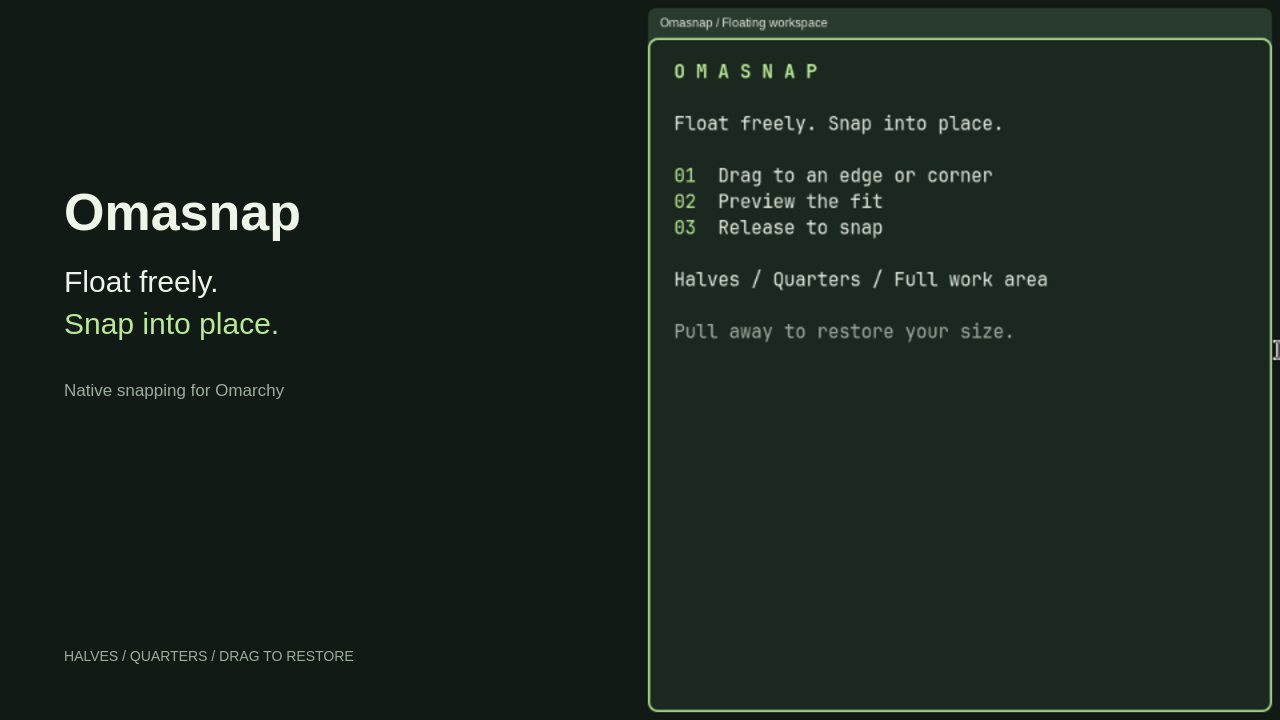
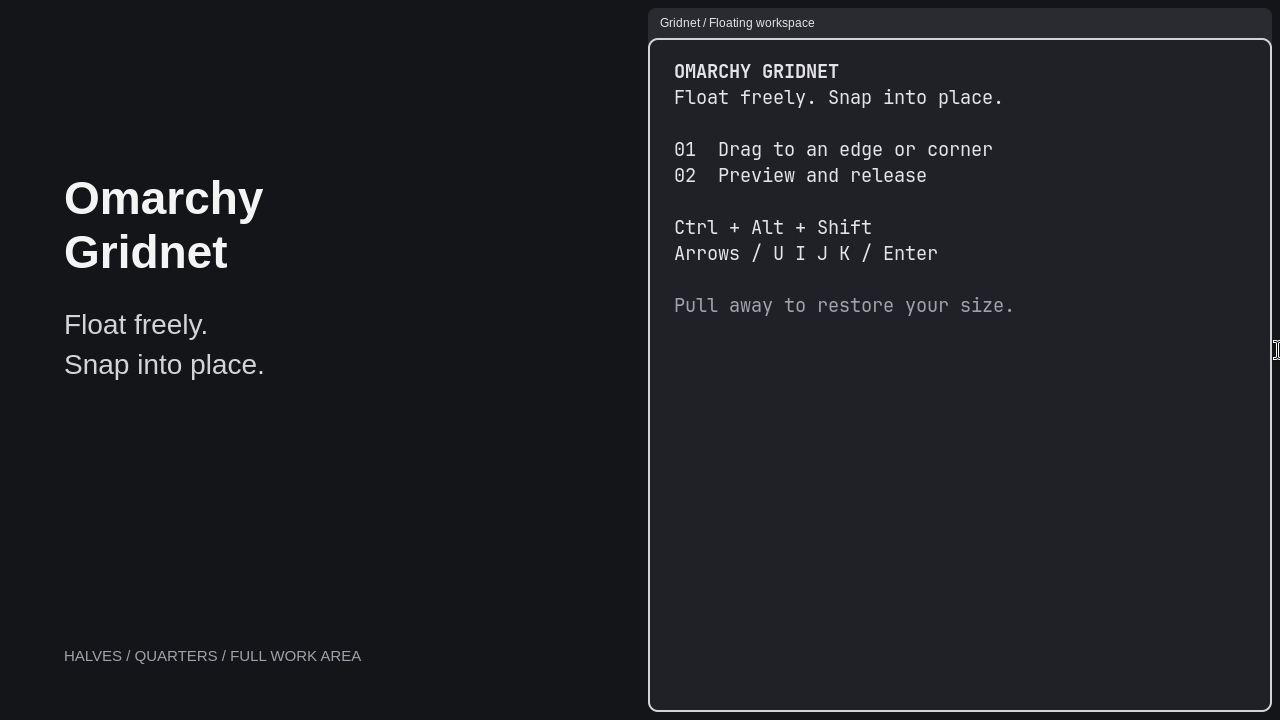
Rebrand as Omarchy Gridnet 1.0.0

diff --git a/Service.qml b/Service.qml
@@ -40,7 +40,7 @@ Item {
                     if (entries[i].id === root.pluginId) value = entries[i];
                 root.settings = value;
             } catch (error) {
-                console.warn("Omasnap: could not read plugin settings: " + error);
+                console.warn("Gridnet: could not read plugin settings: " + error);
             }
         }
     }
@@ -59,7 +59,7 @@ Item {
         }
         onExited: function(exitCode) {
             root.ready = false;
-            if (exitCode !== 0) console.warn("Omasnap: controller exited with code " + exitCode);
+            if (exitCode !== 0) console.warn("Gridnet: controller exited with code " + exitCode);
         }
     }
 

diff --git a/native/plugin.cpp b/native/plugin.cpp
@@ -87,13 +87,13 @@ class Snap {
         const auto modifiers = g_pKeybindManager->stringToModMask("CTRL ALT SHIFT");
         for (const auto& [key, zone] : {
             std::pair{"LEFT", "left"}, {"RIGHT", "right"}, {"UP", "top"}, {"DOWN", "bottom"},
-            {"U", "top-left"}, {"I", "top-right"}, {"J", "bottom-left"}, {"K", "bottom-right"}
+            {"U", "top-left"}, {"I", "top-right"}, {"J", "bottom-left"}, {"K", "bottom-right"}, {"RETURN", "full"}
         }) {
             if (g_pKeybindManager->findConflictingKeybind(xkb_keysym_from_name(key, XKB_KEYSYM_CASE_INSENSITIVE), modifiers))
                 continue;
             bindings.push_back(g_pKeybindManager->addKeybind(SKeybind{
                 .key = key, .modmask = modifiers, .handler = "omasnap:snap", .arg = zone,
-                .description = std::string("Omasnap: ") + zone, .hasDescription = true,
+                .description = std::string("Gridnet: ") + zone, .hasDescription = true,
                 .displayKey = std::string("CTRL + ALT + SHIFT + ") + key,
             }));
         }
@@ -316,14 +316,14 @@ APICALL EXPORT std::string PLUGIN_API_VERSION() { return HYPRLAND_API_VERSION; }
 
 APICALL EXPORT PLUGIN_DESCRIPTION_INFO PLUGIN_INIT(HANDLE handle) {
     if (std::string(__hyprland_api_get_hash()) != __hyprland_api_get_client_hash())
-        throw std::runtime_error("Omasnap: installed headers do not match the running Hyprland; rebuild after logging in again");
+        throw std::runtime_error("Gridnet: installed headers do not match the running Hyprland; rebuild after logging in again");
     instance = std::make_unique<Snap>();
     if (!HyprlandAPI::addDispatcherV2(handle, "omasnap:snap", [](std::string zone) -> SDispatchResult {
         const auto w = Desktop::focusState()->window();
         if (!instance->eligible(w ? w->m_target : nullptr)) return {.passEvent = true, .success = true, .error = ""};
         const auto result = instance->request("omasnap snap " + zone);
         return {.success = result == "ok", .error = result == "ok" ? "" : result};
-    })) throw std::runtime_error("Omasnap: could not register snap dispatcher");
+    })) throw std::runtime_error("Gridnet: could not register snap dispatcher");
     auto& events = Event::bus()->m_events;
     instance->listeners.push_back(events.config.reloaded.listen([] { instance->installBindings(); }));
     instance->listeners.push_back(events.input.mouse.move.listen([](Vector2D, Event::SCallbackInfo&) { instance->motion(); }));
@@ -342,9 +342,9 @@ APICALL EXPORT PLUGIN_DESCRIPTION_INFO PLUGIN_INIT(HANDLE handle) {
     instance->command = HyprlandAPI::registerHyprCtlCommand(handle, SHyprCtlCommand{
         .name = "omasnap", .exact = false,
         .fn = [](eHyprCtlOutputFormat, std::string request) { return instance->request(request); }});
-    if (!instance->command) throw std::runtime_error("Omasnap: could not register IPC command");
+    if (!instance->command) throw std::runtime_error("Gridnet: could not register IPC command");
     instance->installBindings();
-    return {"omasnap-window-snap", "Edge and corner snapping for native Omarchy floating workspaces", "Omasnap contributors", "0.1.4"};
+    return {"omasnap-window-snap", "Omarchy Gridnet: window snapping for floating workspaces", "hudrucan", "1.0.0"};
 }
 
 APICALL EXPORT void PLUGIN_EXIT() { instance.reset(); }

diff --git a/tests/integration.py b/tests/integration.py
@@ -111,7 +111,7 @@ try:
     ctl("omasnap", "restore", check=False)
     position(300, 220)
     original = geometry()
-    for zone in ["left", "right", "top", "bottom", "top-left", "top-right", "bottom-left", "bottom-right"]:
+    for zone in ["left", "right", "top", "bottom", "top-left", "top-right", "bottom-left", "bottom-right", "full"]:
         assert ctl("omasnap", "snap " + zone) == "ok"
         time.sleep(0.1)
         at, size = geometry()
@@ -119,21 +119,32 @@ try:
         assert ctl("omasnap", "restore") == "ok"
         time.sleep(0.1)
         assert geometry() == original, (zone, geometry(), original)
-    print("All eight IPC placements and exact restoration passed", flush=True)
+    print("All nine IPC placements and exact restoration passed", flush=True)
 
-    assert len(snap_bindings()) == 8
+    assert len(snap_bindings()) == 9
     for key, zone in [("Left", "left"), ("Right", "right"), ("Up", "top"), ("Down", "bottom"),
-                      ("u", "top-left"), ("i", "top-right"), ("j", "bottom-left"), ("k", "bottom-right")]:
+                      ("u", "top-left"), ("i", "top-right"), ("j", "bottom-left"), ("k", "bottom-right"), ("Return", "full")]:
         shortcut(key)
         assert geometry() == expected(zone), (key, geometry(), expected(zone))
         assert ctl("omasnap", "restore") == "ok"
         time.sleep(0.1)
         assert geometry() == original
-    print("All eight Ctrl+Alt+Shift keyboard shortcuts passed", flush=True)
+    print("All nine Ctrl+Alt+Shift keyboard shortcuts passed", flush=True)
+
+    shortcut("Return")
+    at, _ = geometry()
+    move(at[0] + 150, at[1] - 15)
+    pointer("button 1")
+    move(at[0] + 170, at[1] - 15)
+    move(600, 400)
+    pointer("button 0")
+    assert geometry()[1] == original[1], (geometry(), original)
+    position(*original[0], *original[1])
+    print("Enter fills the work area and dragging away restores the original size", flush=True)
 
     ctl("reload")
     time.sleep(0.3)
-    assert len(snap_bindings()) == 8
+    assert len(snap_bindings()) == 9
     shortcut("Up")
     assert geometry() == expected("top")
     assert ctl("omasnap", "restore") == "ok"

diff --git a/tests/geometry.cpp b/tests/geometry.cpp
@@ -22,6 +22,7 @@ int main() {
     check(placement(Zone::topLeft, work, 8) == Box{-1912, 148, 944, 504}, "quarter respects reserved top bar");
     check(placement(Zone::top, work, 8) == Box{-1912, 148, 1904, 504}, "top half respects reserved top bar");
     check(placement(Zone::bottom, work, 8) == Box{-1912, 668, 1904, 504}, "bottom half mirrors top half");
+    check(placement(Zone::full, work, 8) == Box{-1912, 148, 1904, 1024}, "full placement respects reserved top bar and gap");
     const Box fractional{37.5, -100.25, 1537.5, 863.5};
     const auto l = placement(Zone::left, fractional, 8), r = placement(Zone::right, fractional, 8);
     check(l.x + l.w + 16 == r.x, "fractional scale has consistent seam");
@@ -31,7 +32,7 @@ int main() {
     check(keepVisible({-1900, 200, 800, 600}, work) == Box{-1900, 200, 800, 600}, "normal placement unchanged");
     const auto huge = keepVisible({3000, 3000, 4000, 3000}, work);
     check(huge.x == -64 && huge.y == 1150, "oversized window keeps a grip on screen");
-    for (int i = 1; i <= int(Zone::bottomRight); ++i)
+    for (int i = 1; i <= int(Zone::full); ++i)
         check(parseZone(zoneName(Zone(i))) == Zone(i), "zone roundtrip");
     std::cout << "Geometry checks passed\n";
 }

diff --git a/native/geometry.hpp b/native/geometry.hpp
@@ -10,7 +10,7 @@ struct Box {
     double x, y, w, h;
     bool operator==(const Box&) const = default;
 };
-enum class Zone { none, left, right, top, bottom, topLeft, topRight, bottomLeft, bottomRight };
+enum class Zone { none, left, right, top, bottom, topLeft, topRight, bottomLeft, bottomRight, full };
 
 inline Zone zoneAt(Point p, Box screen, double edge = 24, double corner = 160) {
     if (p.x < screen.x || p.y < screen.y || p.x >= screen.x + screen.w || p.y >= screen.y + screen.h)
@@ -41,12 +41,13 @@ inline std::string_view zoneName(Zone zone) {
         case Zone::topRight: return "top-right";
         case Zone::bottomLeft: return "bottom-left";
         case Zone::bottomRight: return "bottom-right";
+        case Zone::full: return "full";
         default: return "none";
     }
 }
 
 inline Zone parseZone(std::string_view name) {
-    for (int i = 1; i <= int(Zone::bottomRight); ++i)
+    for (int i = 1; i <= int(Zone::full); ++i)
         if (zoneName(Zone(i)) == name) return Zone(i);
     return Zone::none;
 }

diff --git a/README.md b/README.md
@@ -1,11 +1,11 @@
 <p align="center">
-  <img src="assets/banner.svg" alt="Omasnap — float freely, snap into place." width="100%" />
+  <img src="assets/banner.svg" alt="Omarchy Gridnet — float freely, snap into place." width="100%" />
 </p>
 
 <p align="center">
-  <a href="https://omarchy.org"><img src="https://img.shields.io/badge/Omarchy-4.5%20rc3-b8e994?style=flat-square&amp;labelColor=202820" alt="Tested on Omarchy 4.5 rc3" /></a>
-  <a href="https://hypr.land"><img src="https://img.shields.io/badge/Hyprland-0.56.2-8bd5ca?style=flat-square&amp;labelColor=202820" alt="Tested on Hyprland 0.56.2" /></a>
-  <a href="LICENSE"><img src="https://img.shields.io/badge/license-MIT-e8eddf?style=flat-square&amp;labelColor=202820" alt="MIT license" /></a>
+  <a href="https://omarchy.org"><img src="https://img.shields.io/badge/Omarchy-4.5%20rc3-d4d4d8?style=flat-square&amp;labelColor=27272a" alt="Tested on Omarchy 4.5 rc3" /></a>
+  <a href="https://hypr.land"><img src="https://img.shields.io/badge/Hyprland-0.56.2-d4d4d8?style=flat-square&amp;labelColor=27272a" alt="Tested on Hyprland 0.56.2" /></a>
+  <a href="LICENSE"><img src="https://img.shields.io/badge/license-MIT-d4d4d8?style=flat-square&amp;labelColor=27272a" alt="MIT license" /></a>
 </p>
 
 <p align="center">
@@ -34,15 +34,28 @@ Active only in **native floating workspaces**. Uses your existing titlebars and 
 ## Install
 
 ```sh
-omarchy plugin add https://github.com/hudrucan/omasnap --enable
+omarchy plugin add https://github.com/hudrucan/omarchy-gridnet --enable
 ```
 
 **Tested on Omarchy 4.5 rc3 · Hyprland 0.56.2.** Requires Python 3, `pkg-config`,
 `g++` with C++26 support, and matching Hyprland development headers
 (`pkg-config hyprland` must succeed). The native module builds on first use.
 
-After updating Hyprland, log in again before enabling Omasnap so the running
+After updating Hyprland, log in again before enabling Gridnet so the running
 compositor matches the installed headers.
+
+<details>
+<summary><strong>Upgrading from Omasnap</strong></summary>
+
+Omarchy Gridnet is the new name for Omasnap. The plugin ID, IPC commands, and
+cache/runtime paths keep their original names so existing installations and
+settings continue to work. The old GitHub URL redirects to this repository.
+
+```sh
+omarchy plugin update omasnap.window-snap
+```
+
+</details>
 
 ## Use
 
@@ -73,8 +86,9 @@ Hold **Ctrl + Alt + Shift** (Mac: **Control + Option + Shift**):
 | `↑` / `↓` | Top / bottom half |
 | `U` / `I` | Top-left / top-right quarter |
 | `J` / `K` | Bottom-left / bottom-right quarter |
+| `Enter` | Full work area (maximize) |
 
-These eight shortcuts are registered while Omasnap is enabled and removed when
+These nine shortcuts are registered while Gridnet is enabled and removed when
 disabled. Outside native floating workspaces, they pass through to the focused
 app. Existing bindings for the same combinations take priority.
 
@@ -133,15 +147,15 @@ hyprctl omasnap restore
 ```
 
 Snap targets: `left`, `right`, `top`, `bottom`, `top-left`, `top-right`,
-`bottom-left`, `bottom-right`.
+`bottom-left`, `bottom-right`, `full`.
 
 </details>
 
 ## Development
 
 ```sh
-git clone https://github.com/hudrucan/omasnap.git
-cd omasnap
+git clone https://github.com/hudrucan/omarchy-gridnet.git
+cd omarchy-gridnet
 ./validate
 ```
 
@@ -153,7 +167,7 @@ Hyprland instance. To install a clean, committed checkout locally, run `./instal
 Builds are cached in `~/.cache/omasnap-window-snap/` (or under `$XDG_CACHE_HOME`)
 and checked against the running Hyprland ABI.
 
-Found a bug? [Open an issue](https://github.com/hudrucan/omasnap/issues) with your
+Found a bug? [Open an issue](https://github.com/hudrucan/omarchy-gridnet/issues) with your
 Omarchy and Hyprland versions, drag method, and steps to reproduce.
 
 ---

diff --git a/tests/README.md b/tests/README.md
@@ -2,7 +2,7 @@
 
 `integration.py` drives a virtual mouse in a separate Hyprland instance. It
 checks exact snap geometry, preview, restoration after client size adjustments,
-Escape cancellation, Super/Alt dragging, all eight keyboard shortcuts, config
+Escape cancellation, Super/Alt dragging, all nine keyboard shortcuts, config
 reload, and shortcut passthrough outside native floating workspaces. It
 refuses to target the current compositor.
 
@@ -30,7 +30,7 @@ Use a dedicated compositor with:
 - Super/Alt + left-button bindings using `hl.dsp.window.drag()`.
 - `input.resolve_binds_by_sym = true` so bindings honor `wtype`'s custom keymap.
 - A floating window with app ID `omasnap-test`, tagged `omarchy-floating-workspace`.
-- Omasnap loaded through `native-controller run <unique-token>` with stdin open.
+- Gridnet loaded through `native-controller run <unique-token>` with stdin open.
 - `foot`, `wtype`, and `grim` available.
 
 ```sh
@@ -38,6 +38,6 @@ python3 tests/integration.py --instance <test-instance> \
   --display <test-wayland-socket> --pointer build/virtual-pointer
 ```
 
-Run with the window opened both before and after loading Omasnap; titlebar
+Run with the window opened both before and after loading Gridnet; titlebar
 listener order differs. Use `--app-id org.omarchy.agent` for an Agent test window.
 Send `quit` to the controller and close the test compositor when finished.
